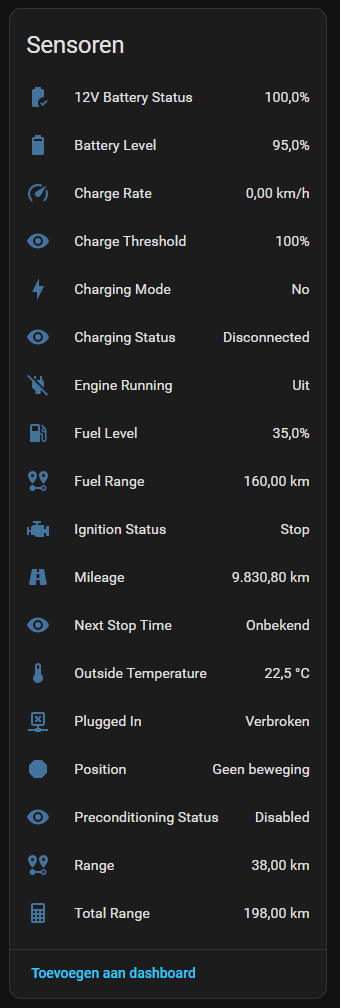
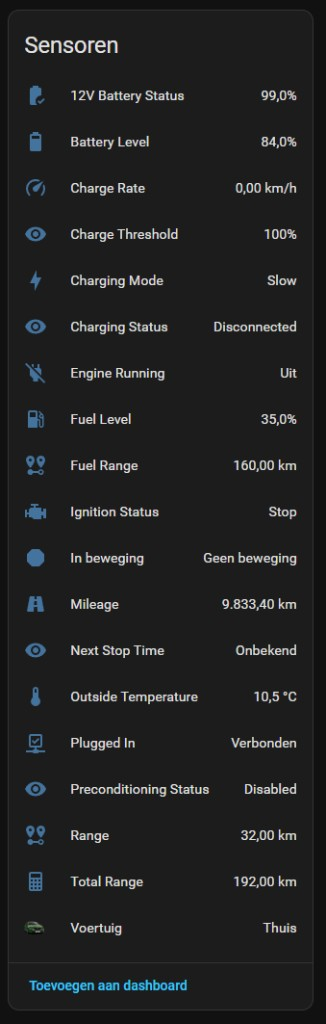
Add entity category attribute to PsaVehicleTracker class to the device tracker ends up in the default sensors.

Changed region(s): [[0.0613, 0.0308, 0.9202, 0.9226], [0.092, 0.9534, 0.5828, 0.9841]]

diff --git a/custom_components/psa_controller/device_tracker.py b/custom_components/psa_controller/device_tracker.py
@@ -30,6 +30,7 @@ async def async_setup_entry(
 class PsaVehicleTracker(PsaControllerEntity, TrackerEntity):
     """GPS device tracker with optional cached vehicle image."""
 
+    _attr_entity_category = None
     _attr_translation_key = "vehicle"
 
     def __init__(self, coordinator: PsaControllerDataUpdateCoordinator) -> None:

diff --git a/README.md b/README.md
@@ -38,17 +38,13 @@ Connect Home Assistant to **[psa_car_controller](https://github.com/flobz/psa_ca
 
 Lovelace **Entities** cards (dark theme; entity names follow your Home Assistant language).
 
-**Sensors** — battery, range, charging, fuel, mileage, and related values:
+**Sensors** — battery, range, charging, fuel, mileage, vehicle location (`device_tracker`), binary sensors, and related values:
 
 ![Sensors — PSA Car controller](images/screenshot-sensors.png)
 
 **Controls** — charge threshold, climate on/off, wake-up:
 
 ![Controls — charge threshold and actions](images/screenshot-controls.png)
-
-**Diagnostics** — vehicle row with optional processed image:
-
-![Diagnostics — vehicle](images/screenshot-diagnostics.png)
 
 ---
 
